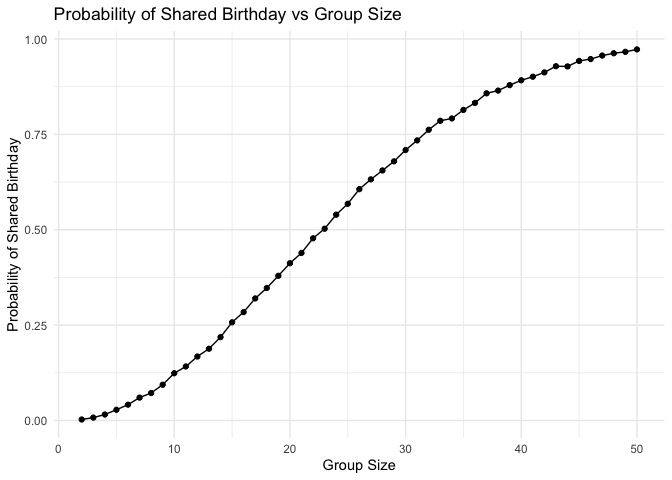
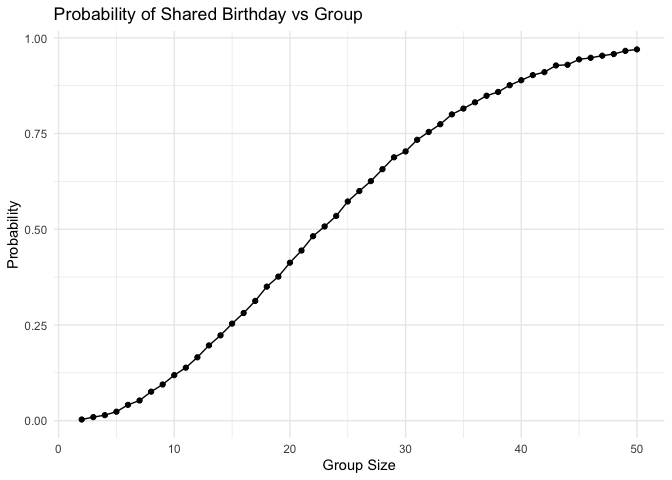
Question 1 and Question 2

diff --git a/p8105_hw5_KAB2310.md b/p8105_hw5_KAB2310.md
@@ -1,0 +1,164 @@
+p8105_hw2_KAB2310
+================
+Kamiah Brown
+2024-10-01
+
+## This is my submission for Homework 5.
+
+### Set up
+
+``` r
+library(tidyverse)
+```
+
+    ## ── Attaching core tidyverse packages ──────────────────────── tidyverse 2.0.0 ──
+    ## ✔ dplyr     1.1.4     ✔ readr     2.1.5
+    ## ✔ forcats   1.0.0     ✔ stringr   1.5.1
+    ## ✔ ggplot2   3.5.1     ✔ tibble    3.2.1
+    ## ✔ lubridate 1.9.3     ✔ tidyr     1.3.1
+    ## ✔ purrr     1.0.2     
+    ## ── Conflicts ────────────────────────────────────────── tidyverse_conflicts() ──
+    ## ✖ dplyr::filter() masks stats::filter()
+    ## ✖ dplyr::lag()    masks stats::lag()
+    ## ℹ Use the conflicted package (<http://conflicted.r-lib.org/>) to force all conflicts to become errors
+
+``` r
+library(dplyr)
+library(readxl)
+library(broom)
+```
+
+# Question 1
+
+#### Function
+
+``` r
+bday_sim = function(n) {
+  sample = sample(1:365, size = n, replace = TRUE)
+duplicates = length(unique(sample)) < n
+return(duplicates)
+}
+
+bday_sim(7)
+```
+
+    ## [1] FALSE
+
+``` r
+#### Running function 1000 times for each group size between 2 and 50
+bday_sim = expand_grid(
+    iter = 1:10000,
+    n = 2:50) |>
+  mutate(res = map_lgl(n, bday_sim)) |> 
+  group_by(n) |> 
+  summarize(
+    prob = mean(res)
+  )
+```
+
+#### Probability as a function (Shared Birthday) of group size
+
+``` r
+bday_sim |>
+  ggplot(aes(x = n, y = prob)) +
+  geom_point() +
+  geom_line() +
+  labs(
+    title = "Probability of Shared Birthday vs Group",
+    x = "Group Size",
+    y = "Probability"
+  ) +
+  theme_minimal()
+```
+
+![](p8105_hw5_KAB2310_files/figure-gfm/unnamed-chunk-4-1.png)<!-- -->
+
+### Comments
+
+The plot demonstrates that as the group size increases, the probability
+of at least two people sharing a birthday rises quickly at first and
+then levels off as it approaches 1, highlighting a nonlinear
+relationship. While smaller groups show a rapid increase in the
+likelihood of shared birthdays, the rate of increases slows signficantly
+for larger group sizes (beyond 30), where the probability is approaching
+1.
+
+# Question 2
+
+``` r
+n = 30
+sigma = 5
+
+sim_power = function(mu){
+  
+  tibble(
+    x = rnorm(n, mu, sigma)) |> 
+      summarize(
+        tidy(t.test(x, mu = 0, conf.level = 0.95))) |> 
+    select(estimate, p.value)
+  
+}
+
+# Generate 5000 datasets from the model
+sim_result = expand_grid(
+  mu = 0:6,
+  iter = 1:5000) |> 
+  mutate(samp_res = map(mu, sim_power)) |> 
+  unnest(samp_res)
+```
+
+#### plot showing the proportion of times the null was rejected
+
+``` r
+sim_result |> 
+  group_by(mu) |> 
+  summarize(
+    power = mean(p.value < 0.05)
+  ) |> 
+  ggplot(aes(x = mu, y = power)) +
+  geom_point() +
+  geom_line()
+```
+
+![](p8105_hw5_KAB2310_files/figure-gfm/unnamed-chunk-6-1.png)<!-- -->
+
+### Comments
+
+When the effect size, mu, increases, the power of the test also
+increases. This means that the likelihood of correctly rejecting the
+null hypothesis rises as mu deviates further from 0.
+
+#### Plot showing the average estimate of mu and an overlay on the graph showing the average estimate of mu only in samples for which the null was rejected.
+
+``` r
+df1 = sim_result |> 
+  group_by(mu) |> 
+  summarize(avg = mean(estimate))  |> 
+  mutate(category = "true")
+```
+
+``` r
+df2 = sim_result |> 
+  filter(p.value < 0.05) |> 
+  group_by(mu) |> 
+  summarize(avg = mean(estimate)) |> 
+  mutate(category = "rejected")
+
+#Combining data frames
+df <- rbind(df1, df2)
+
+#Plot 2
+ggplot(df, aes(x = mu, y = avg, color = category)) +
+  geom_point() +  
+  geom_line() +  
+  labs(
+    title = "Average Estimate by Mu",
+    x = "Mu",
+    y = "Average Estimate",
+    color = "Category"
+  ) +
+  theme_minimal()
+```
+
+![](p8105_hw5_KAB2310_files/figure-gfm/unnamed-chunk-8-1.png)<!-- -->
+\### Comments
